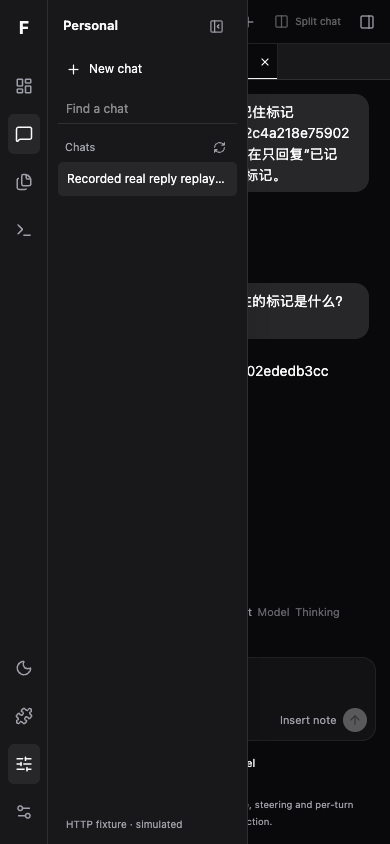
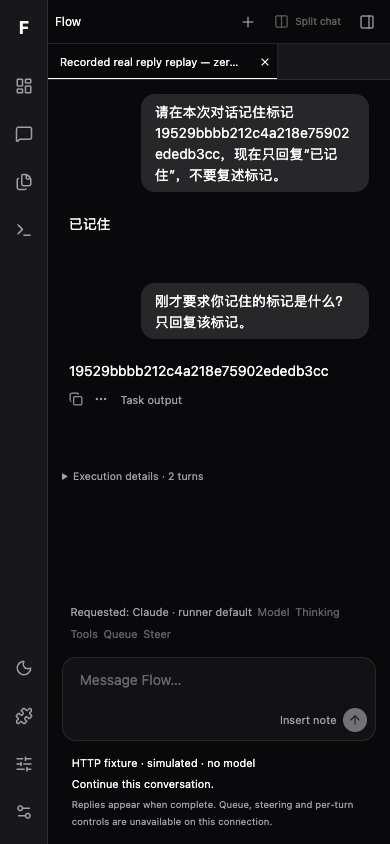
docs(chat): qualify effective extensions and visible replay evidence

diff --git a/docs/evidence/f01/chat-live/README.md b/docs/evidence/f01/chat-live/README.md
@@ -8,7 +8,7 @@
 
 **完整第二轮live可见正文没有被本次截图证明。** 原验收脚本只等assistant内容节点数量2，第二轮原图`two-rounds.png`仍是pending。原`checks.json`/stdout的PASSED和原图完整保留，不能据此审批完整第二轮UI。HTTP真实终态、nonce回复和谱系证据有效。脚本后来补了focused可见pane内第二assistant-content精确文本断言，但不再运行真实query。
 
-另作**零模型、保存响应重放**：复用已批准Web HTTP fixture，只用两个真实保存turn/body，将第二项从pending切换为已保存final，等focused且可见的第二assistant-content精确等于nonce（不能匹配第一用户prompt/隐藏pane）。约2.36秒轮询后通过、pending消失；浅色桌面与深色390px实际截图已查看，无pageerror、无POST、0模型。见`replay-checks.json`与`replay-two-rounds-*.png`。这证明产品UI能消费这些实际响应，不改称同一次live截图或真实浏览器端完整终态验收通过。首次重放仅主题按钮定位写错失败，原`replay-checks-initial.json`/`replay-initial.txt`保留；修正为现有Use dark theme后重放通过。
+另作**零模型、保存响应重放**：复用已批准Web HTTP fixture，只用两个真实保存turn/body，将第二项从pending切换为已保存final，等focused且可见的第二assistant-content精确等于nonce（不能匹配第一用户prompt/隐藏pane）。轮询后通过、pending消失；浅色桌面与深色390px实际截图已查看，无pageerror、无POST、0模型。见`replay-checks.json`与`replay-two-rounds-*.png`。这证明产品UI能消费这些实际响应，不改称同一次live截图或真实浏览器端完整终态验收通过。首次重放仅主题按钮定位写错失败，原`replay-checks-initial.json`/`replay-initial.txt`保留；修正为现有Use dark theme后重放通过。第二份窄屏图保留了展开的侧栏并遮挡正文，不能用DOM可见断言冒充无遮挡阅读；该图和检查保存为`replay-narrow-sidebar-open.png`、`replay-checks-sidebar-open.json`。后续仅零模型重放增加用户关闭侧栏动作，04:28:13 UTC通过后实际查看深色390px截图：两轮正文无遮挡可读。此次重放运行于main4e0289f；Web产品和fixture源码相对dd1b9daf零差异，新增插件模块并未挂App。原数据sourceMain仍指真实响应采集基线，完整区分见`replay-source.json`。
 
 ## 谱系与成本
 
@@ -21,7 +21,7 @@ Conversation `c61e9d0a-6c3e-42bb-bd6b-ce80f0aff948`；native session `f3e33626-8
 
 两次SDK累计样本保守求和 **$0.013442 <= $0.40**；第二次baseline仍unknown，不当增量账单/全项目预算。请求和init报告主模型均claude-sonnet-5-5，SDK pipeline modelUsage另含claude-haiku-4-5-20251001，已计入，不能宣称所有底层模型请求都只有Sonnet。2次query不等于2次provider HTTP调用。保存的是中心忠实归一化的SDK modelUsage事件字段，不是未处理SDK wire全文。
 
-请求manifest为0材料/0工具、dontAsk、thinking disabled、每query2turns/$0.20/60s；实际reported tools=[]，thinking仍unknown（SDK不证明其生效）。产品conversation.requested runner-default/configured-readonly与runner实际none/model配置分开。短回复无Read full reply按钮，浏览器自动详情请求0；长回复显式展开仍仅此前Web fixture证据，不冒称本轮真实展开。
+请求manifest为0材料/0工具、plugins=[]、skills=[]、dontAsk、thinking disabled、每query2turns/$0.20/60s；实际reported tools=[]，thinking仍unknown（SDK不证明其生效）。**两轮init实际均报告3个plugins（agents-md、telemetry、plugin-authoring）及3个skills（design、doctor、plugin-authoring）**，与请求空数组不同；此实验不能称零扩展/干净上下文或公平harness对照。它只记录固定请求配置与实际报告，两者不混同。产品conversation.requested runner-default/configured-readonly与runner实际none/model配置分开。短回复无Read full reply按钮，浏览器自动详情请求0；长回复显式展开仍仅此前Web fixture证据，不冒称本轮真实展开。
 
 ## 资源与方法
 

diff --git a/plans/f01-shared-domains/status.md b/plans/f01-shared-domains/status.md
@@ -2,7 +2,7 @@
 
 | 字段 | 记录 |
 | --- | --- |
-| 最近更新 / 最近main同步核验 | 2026-10-06 04:25 UTC / 2026-10-06 04:20 UTC |
+| 最近更新 / 最近main同步核验 | 2026-10-06 04:29 UTC / 2026-10-06 04:27 UTC |
 | Plan | [plan.md](plan.md) |
 | 单一status owner / model | Execution Lead / gpt-6-astra ultra |
 | Worktree | `/Users/citrine/Projects/AgentHarness/Flow-worktrees/m2-shared-foundation` |
@@ -11,7 +11,7 @@
 | 工作树dirty状态 | 源码已提交；本次同步证据与status |
 | 工作分支状态 | in-progress |
 | 检查状态 | PASSED 095497dc1719d10df8309fdf17d95539fc891e06：插件CLI真实PG1+client4共5/5、typecheck；CHAT生产10/10由CHAT02保存 |
-| 已集成main状态 / HEAD | main 8f1481df880cf5077e1ddb9a8f302fe700a7ece8 已含CHAT中心/typed/shared37ab和X02共享095；新增profile client94f仍分支待独审 |
+| 已集成main状态 / HEAD | main 4e0289f29ffa48c6c49003837d4520f57c22b6b0 已含CHAT完整三端、profile client94f/Mika批准与300f生产挂载/Root批准；本轮live报告尚未集成 |
 | Review | APPROVED 095497插件接线/Mika；37ab CHAT生产挂载/Goal Owner；领域CHAT01/02/X02各自独审 |
 | 实现目标 | 095497dc1719d10df8309fdf17d95539fc891e06 |
 | 实现范围 | packages/client/src/index.ts, apps/cli/src/index.ts, apps/cli/src/plugins.test.ts, apps/server/src/index.ts, packages/contracts/src/index.ts |
@@ -30,12 +30,12 @@
 | F01-04 | completed | Lead | P02真实入口已验证且初始化修复已审，接收最新模块后集成 |
 
 | F01-05 | completed | Lead | O01公共client/CLI真实PG最终1/1+初次6/6、typecheck；Goal Owner2b754批准且main4e817已接收 |
-| F01-06 | in-progress | Lead | CHAT client841已审，生产37ab挂载；CHAT01 typed d0f和CHAT02 2e已独审，真实两轮条件批准但0调用 |
+| F01-06 | in-progress | Lead | CHAT三端已审/main；2/2真实query已封存，谱系/后台nonce通过，第二轮live UI未证明，0模型可见正文重放补证待Root正式审查 |
 
-| F01-08 | completed | Lead | 薄client94f50已通过HTTP1/1+tsc，待独审/中心领域交付 |
+| F01-08 | completed | Lead | 薄client94f50已通过HTTP1/1+tsc，Mika批准；中心领域a28/Mika与生产300f/Root已审并集成 |
 | F01-07 | completed | Lead | X02已审3d0c领域输入；公共接线095497，真实PG CLI1+client4/typecheck，Mika独审APPROVED |
 
-未调用模型或云；具体检查/已审target后续在本owner更新，main事实独立。dashboard已登记唯一来源；此前共享已集成，O01增量已审/集成；CHAT接线进行中。
+本任务历史共享检查为0模型；2026-10-06 04:20另获授权完成2次真实query，预算封存，限定报告见[chat-live](../../docs/evidence/f01/chat-live/README.md)，不将后台成功等同第二轮live UI通过。dashboard已登记唯一来源；此前共享已集成，O01增量已审/集成；CHAT接线进行中。
 
 
 2026-10-06 03:32 UTC：O01领域接收6bb后实现零diff；本次公共消费者增量待review，不能继承此前36ae审批。首轮typecheck测试输入错误已修，原始失败保留。

diff --git a/plans/f01-shared-domains/review.md b/plans/f01-shared-domains/review.md
@@ -31,3 +31,5 @@ Goal Owner只读APPROVED `84117ca1c7446ee2e2b50f0526f3460dd42a2869`：6methods/e
 Mika只读APPROVED，固定94f50acf38213caacb2852d740c818b8480e3d15，范围packages/client/src/index.ts、packages/client/src/execution-profiles.test.ts、packages/contracts/src/index.ts。1/1 HTTP(366ms)+tsc及原始hash核，未重跑；无finding。目录/发布仅薄传输，不批准CHAT03领域实现或后续SDK依赖。检查hash ac2b6fbbdbfd096e39c401e814484e46ef9690bee4ad42312c2f13bdf3747183，tsc1185ecf11053eb49f76c61e0735805fedcc40c0559340400df8b4df87f0a295a。
 
 CHAT03 mount独立增量：Root只读APPROVED 300f0035b4c754cd09a4e38680378d8fb81924cc，仅apps/server/src/index.ts三行。检查/source hash见quality.md；不继承为真实模型通过，未重跑。领域Mika a28与thin client94f各自独审。
+
+O02共享依赖：Root只读APPROVED dac8c3910eee1828e7081a3d33e19a89a056f4d4（runner manifest+lock importer），无resolved版本漂移。真实CHAT报告独立验收待Root，尤其第二轮live可见正文明确NOT_PROVEN；不能沿用历史接线approval覆盖新模型/浏览器结论。
